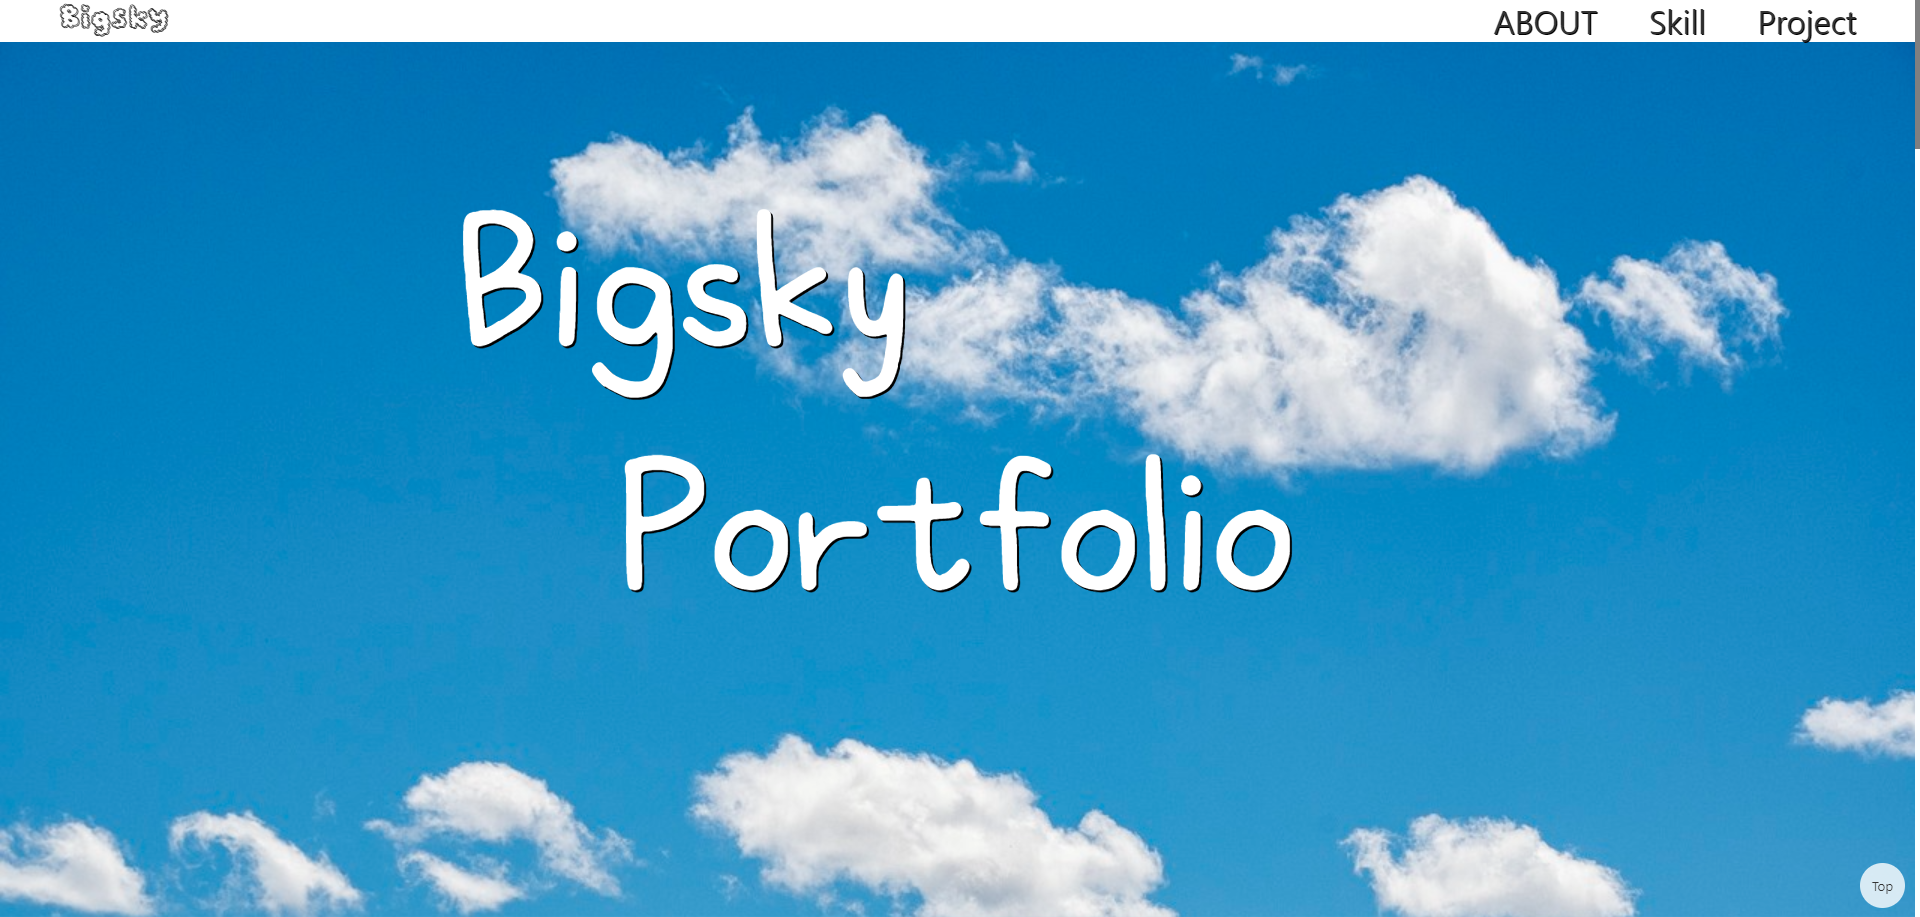
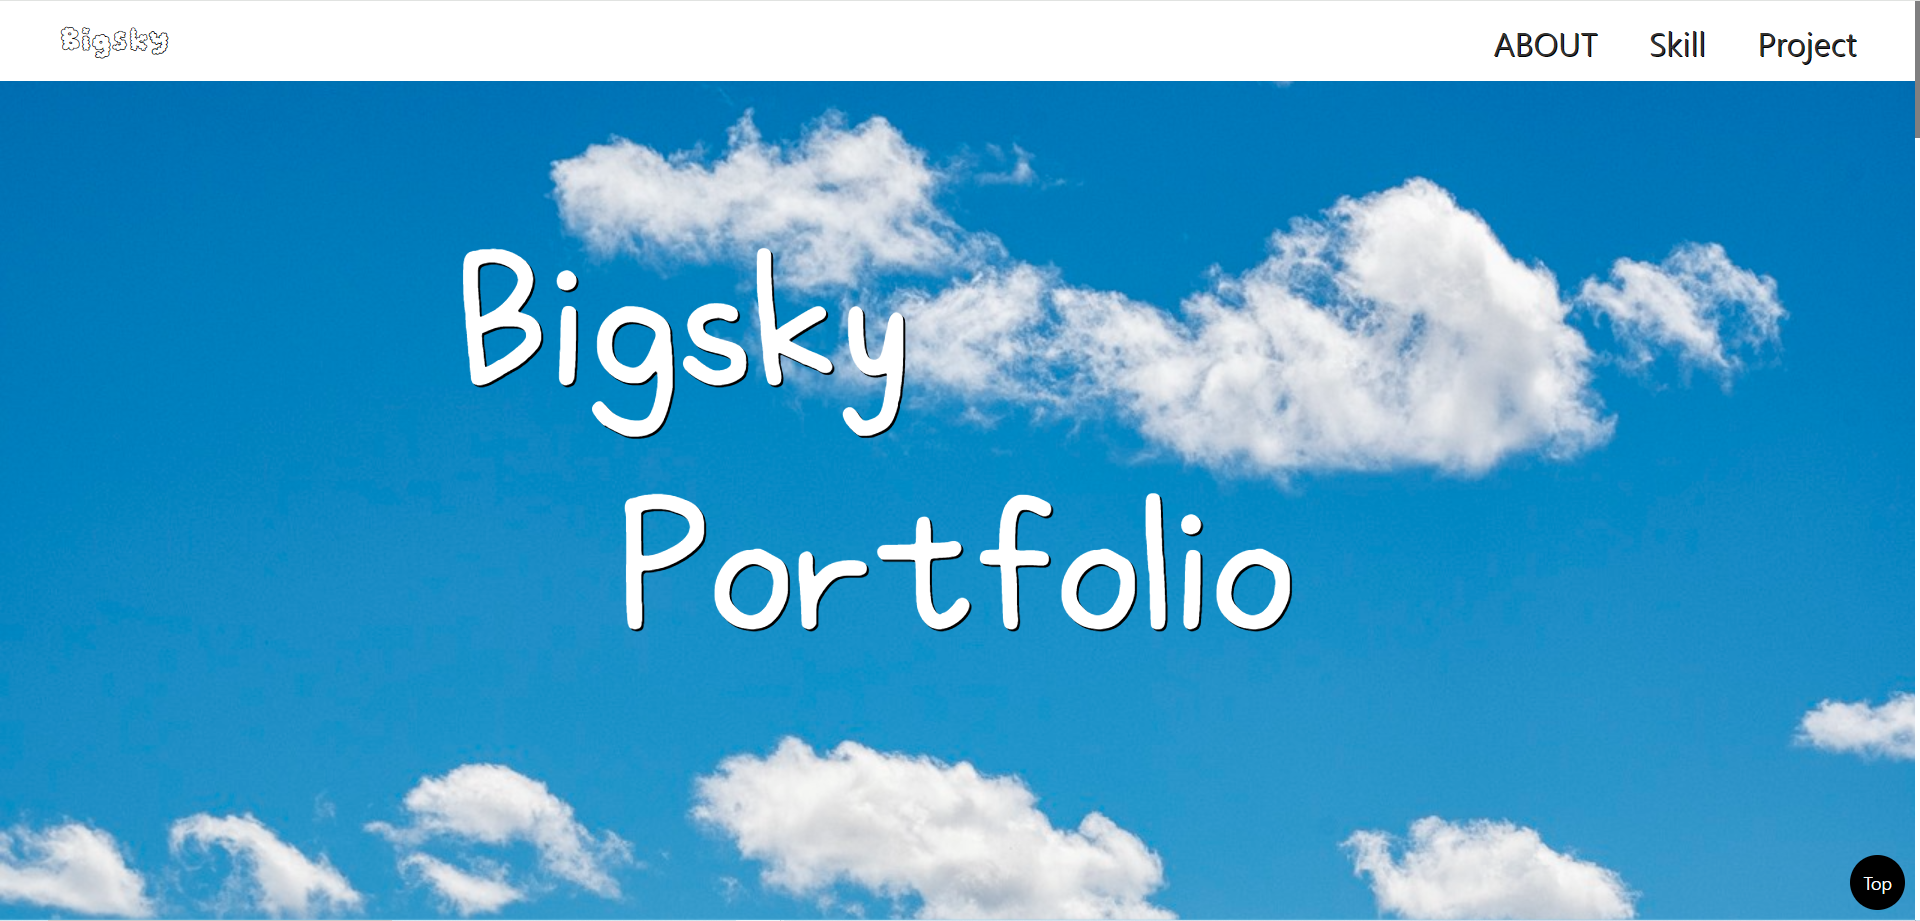
0812 월요일 마무리

diff --git a/scss/pattern/_p_layout.scss b/scss/pattern/_p_layout.scss
@@ -79,8 +79,10 @@ h1 {
     z-index: 5;
     font-size: 1rem;
     .hade {
+        height: 80px;
         background: white;
         .inner {
+            padding-top: 20px;
             display: flex;
             justify-content: space-between;
         }
@@ -749,6 +751,7 @@ h1 {
 }
 
 .codepo {
+    font-size: 1.1rem;
     background: #92929273;
     width: 50px;
     border-radius: 15%;

diff --git a/css/main.css b/css/main.css
@@ -86,9 +86,11 @@ h1 {
   font-size: 1rem;
 }
 #header .hade {
+  height: 80px;
   background: white;
 }
 #header .hade .inner {
+  padding-top: 20px;
   display: flex;
   justify-content: space-between;
 }
@@ -815,6 +817,7 @@ h1 {
 }
 
 .codepo {
+  font-size: 1.1rem;
   background: rgba(146, 146, 146, 0.4509803922);
   width: 50px;
   border-radius: 15%;
